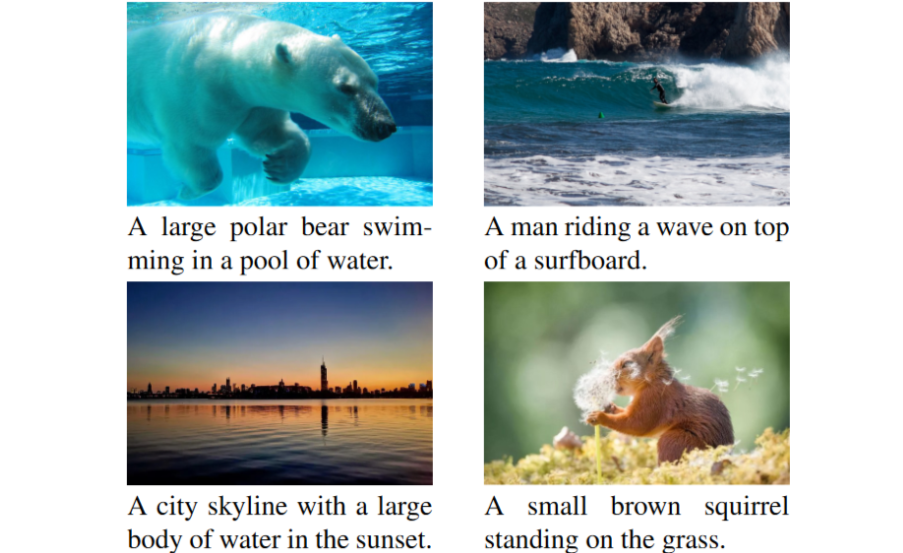
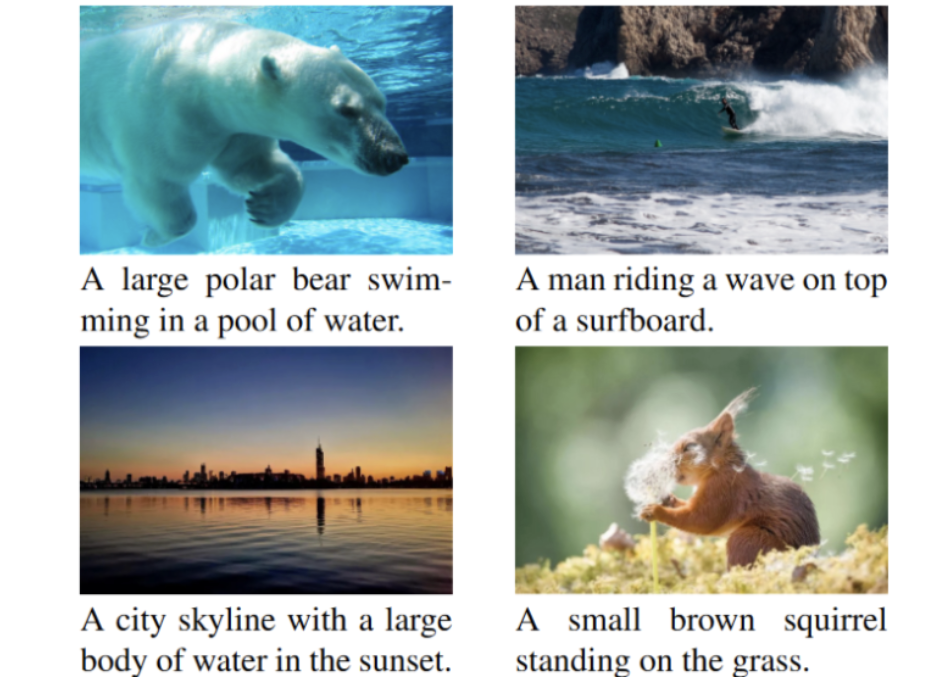
update

diff --git a/misc.md b/misc.md
@@ -14,7 +14,7 @@ I am from [Nanjing](https://en.wikipedia.org/wiki/Nanjing), China.
 
 My personality type is INFJ. I’m a [Ravenclaw](https://www.wizardingworld.com/collections/ravenclaw).
 
-I have watched over 1,000 movies. I enjoy Mystery and Sci-Fi, and have also studied Cinema Novo.
+I have watched over 1,000 movies. I enjoy Drama, Mystery and Sci-Fi, and have also studied Cinema Novo.
 <!-- My favourite director is [Christopher Nolan](https://www.imdb.com/name/nm0634240/). -->
 
 Some piano pieces I love to play: Moonlight Sonata, Flower Dance, and Croatian Rhapsody.
